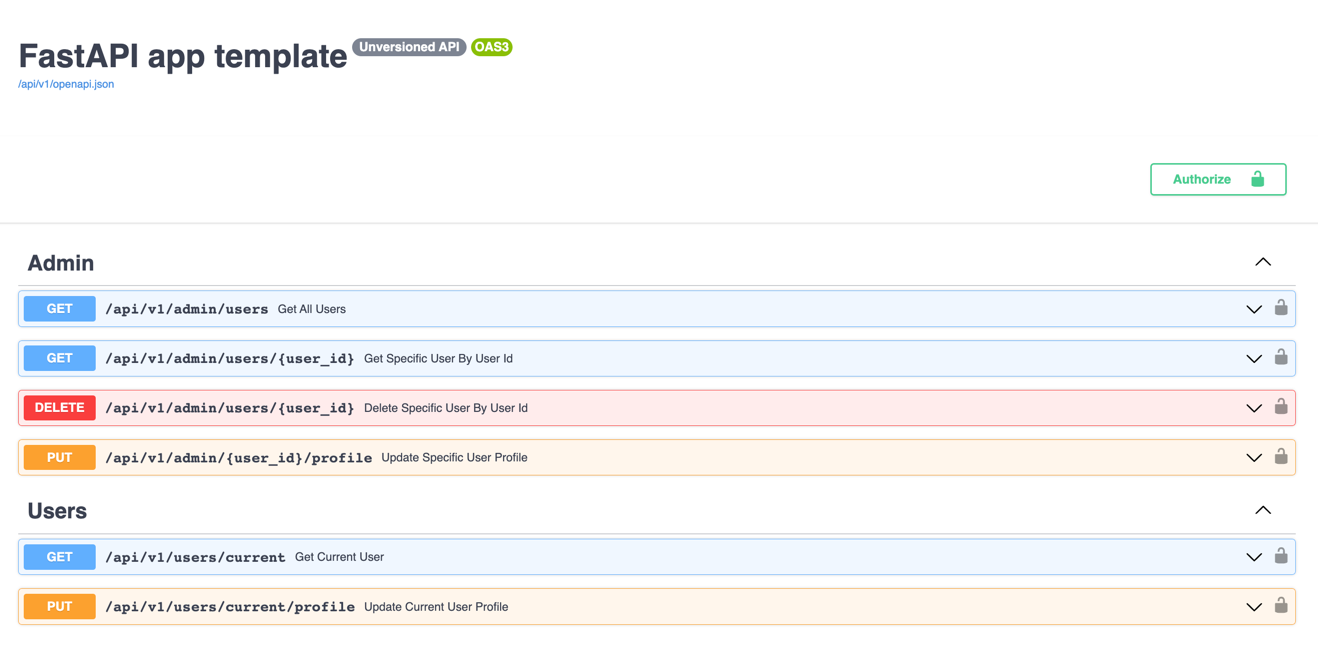
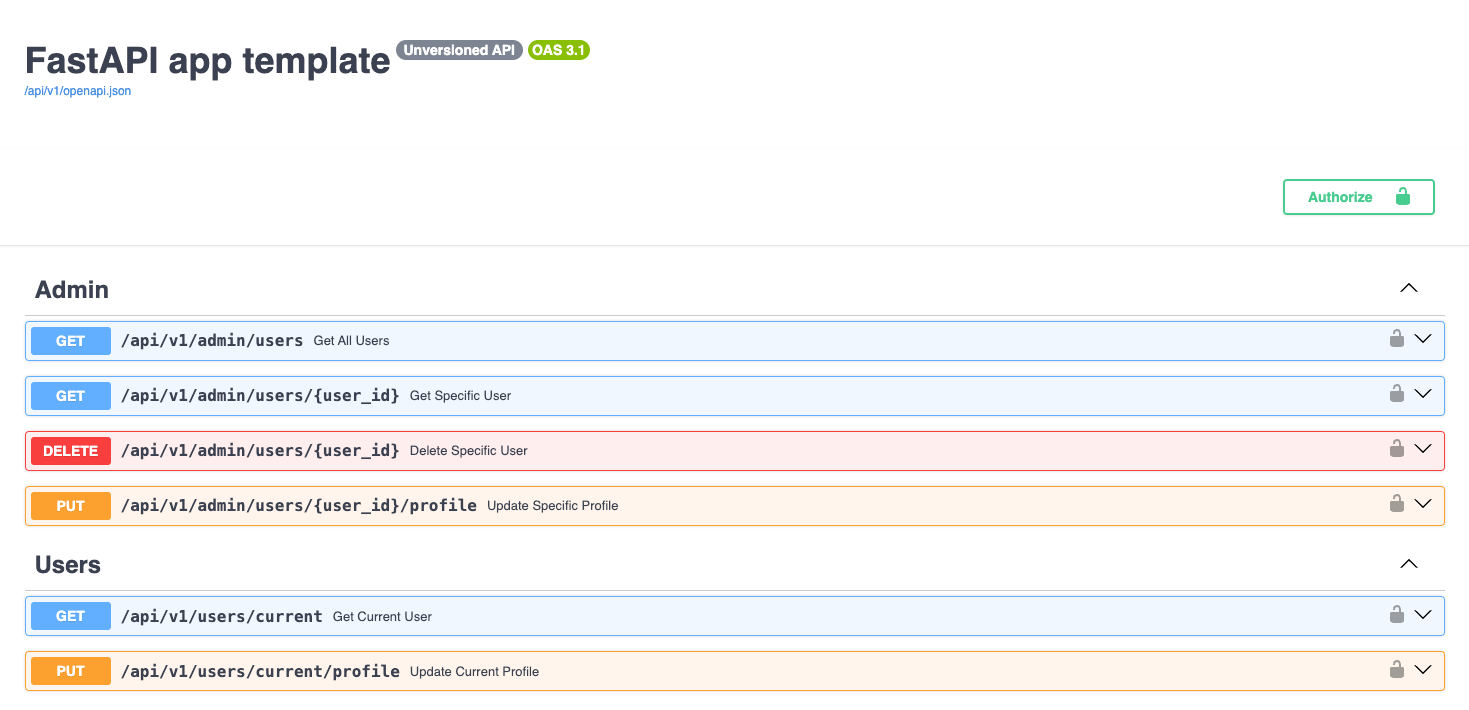
fix(docs): fix FastAPI router name / description

diff --git a/app/modules/core/routes.py b/app/modules/core/routes.py
@@ -37,9 +37,9 @@ router = APIRouter(prefix="/core")
     "/roles",
     status_code=status.HTTP_200_OK,
     response_model=Page[RoleBase],
-    name="Get all roles",
+    description="Get all roles with pagination",
 )
-async def get_roles(
+async def get_all_roles(
     db: AsyncSession = Depends(get_db),
     current_user: User = Security(  # noqa
         get_current_active_user, scopes=["admin", "role:read"]
@@ -52,7 +52,7 @@ async def get_roles(
     "/roles/{role_id}",
     status_code=status.HTTP_200_OK,
     response_model=RoleBase,
-    name="Get specific role",
+    description="Get specific role by role_id",
 )
 async def get_specific_role(
     role_id: int,
@@ -68,7 +68,7 @@ async def get_specific_role(
     "/roles",
     status_code=status.HTTP_200_OK,
     response_model=RoleBase,
-    name="Create a role",
+    description="Create a role",
 )
 async def create_role(
     role: RoleCreate,
@@ -85,9 +85,9 @@ async def create_role(
     "/roles/{role_id}",
     status_code=status.HTTP_200_OK,
     response_model=RoleBase,
-    name="Update specific role",
+    description="Update specific role by role_id",
 )
-async def update_role(
+async def update_specific_role(
     role_id: int,
     role: RoleUpdate,
     db: AsyncSession = Depends(get_db),
@@ -104,9 +104,9 @@ async def update_role(
     "/roles/{role_id}",
     status_code=status.HTTP_200_OK,
     response_model=DefaultResponse,
-    name="Delete specific role",
+    description="Delete specific role by role_id",
 )
-async def delete_role(
+async def delete_specific_role(
     role_id: int,
     db: AsyncSession = Depends(get_db),
     current_user: User = Security(  # noqa
@@ -120,7 +120,7 @@ async def delete_role(
     "/roles/user/{user_id}",
     status_code=status.HTTP_200_OK,
     response_model=UserRoleBase,
-    name="Get specific user roles",
+    description="Get specific user roles by user_id",
 )
 async def get_specific_user_roles(
     user_id: int,
@@ -136,7 +136,7 @@ async def get_specific_user_roles(
     "/roles/{role_id}/user/{user_id}",
     status_code=status.HTTP_201_CREATED,
     response_model=UserRoleBase,
-    name="Link role to a user",
+    description="Link role to a user given a role_id and user_id",
 )
 async def link_role_to_user(
     role_id: int,
@@ -161,9 +161,9 @@ async def link_role_to_user(
     "/roles/{role_id}/permissions",
     status_code=status.HTTP_200_OK,
     response_model=RolePermissions,
-    name="Get specific permissions for a role",
+    description="Get specific permissions for a role given a role_id",
 )
-async def role_permission(
+async def get_role_permission(
     role_id: int,
     db: AsyncSession = Depends(get_db),
     current_user: User = Security(  # noqa
@@ -184,7 +184,7 @@ async def role_permission(
     "/roles/{role_id}/user/{user_id}",
     status_code=status.HTTP_200_OK,
     response_model=DefaultResponse,
-    name="Unlink a role from a user",
+    description="Unlink a role from a user given a role_id and user_id",
 )
 async def unlink_role_from_user(
     role_id: int,
@@ -214,7 +214,7 @@ async def unlink_role_from_user(
     "/roles/{role_id}/permission/{permission_id}",
     status_code=status.HTTP_200_OK,
     response_model=RolePermissions,
-    name="Link role to a permission",
+    description="Link role to a permission given a role_id and permission_id",
 )
 async def link_role_to_permission(
     role_id: int,
@@ -244,7 +244,7 @@ async def link_role_to_permission(
     "/roles/{role_id}/permission/{permission_id}",
     status_code=status.HTTP_200_OK,
     response_model=DefaultResponse,
-    name="Unlink a role from a permission",
+    description="Unlink a role from a permission given a role_id and permission_id",
 )
 async def unlink_role_from_permission(
     role_id: int,
@@ -274,9 +274,9 @@ async def unlink_role_from_permission(
     "/permissions",
     status_code=status.HTTP_200_OK,
     response_model=Page[PermissionBase],
-    name="Get all permissions",
+    description="Get all permissions with pagination",
 )
-async def get_permissions(
+async def get_all_permissions(
     db: AsyncSession = Depends(get_db),
     current_user: User = Security(  # noqa
         get_current_active_user, scopes=["admin", "permission:read"]
@@ -289,7 +289,7 @@ async def get_permissions(
     "/permissions/{permission_id}",
     status_code=status.HTTP_200_OK,
     response_model=PermissionBase,
-    name="Get specific permission",
+    description="Get specific permission by permission_id",
 )
 async def get_specific_permission(
     permission_id: int,
@@ -305,7 +305,7 @@ async def get_specific_permission(
     "/permissions",
     status_code=status.HTTP_201_CREATED,
     response_model=PermissionBase,
-    name="Create permission",
+    description="Create permission with a scope name and description",
 )
 async def create_permission(
     permission: PermissionCreate,
@@ -322,9 +322,9 @@ async def create_permission(
     "/permissions/{permission_id}",
     status_code=status.HTTP_200_OK,
     response_model=PermissionBase,
-    name="Update specific permission",
+    description="Update specific permission by permission_id",
 )
-async def edit_permission(
+async def update_specific_permission(
     permission_id: int,
     permission: PermissionUpdate,
     db: AsyncSession = Depends(get_db),
@@ -341,9 +341,9 @@ async def edit_permission(
     "/permissions/{permission_id}",
     status_code=status.HTTP_200_OK,
     response_model=DefaultResponse,
-    name="Delete specific permission",
+    description="Delete specific permission by permission_id",
 )
-async def delete_permission(
+async def delete_specific_permission(
     permission_id: int,
     db: AsyncSession = Depends(get_db),
     current_user: User = Security(  # noqa
@@ -357,7 +357,7 @@ async def delete_permission(
     "/permissions/user/{user_id}",
     status_code=status.HTTP_200_OK,
     response_model=UserPermissionBase,
-    name="Get specific user permissions",
+    description="Get specific user permissions by user_id",
 )
 async def get_specific_user_permission(
     user_id: int,

diff --git a/app/auth/routes.py b/app/auth/routes.py
@@ -28,9 +28,9 @@ router = APIRouter(prefix="/auth")
     "/signup",
     status_code=status.HTTP_201_CREATED,
     response_model=UserSchema,
-    name="Create an account",
+    description="Create an account",
 )
-async def create_user(
+async def signup(
     user: UserCreate, request: Request, db: AsyncSession = Depends(get_db)
 ) -> UserSchema:
     if not settings.USERS_OPEN_REGISTRATION:
@@ -72,12 +72,12 @@ async def create_user(
 
 
 @router.post(
-    "/token",
+    "/login",
     status_code=status.HTTP_201_CREATED,
     response_model=Token,
-    name="Get an access/refresh token",
+    description="Get an access/refresh token",
 )
-async def login_for_access_token(
+async def login(
     db: AsyncSession = Depends(get_db), form_data: OAuth2PasswordRequestForm = Depends()
 ) -> dict:
     user = await check_user_auth(db, form_data.username, form_data.password)
@@ -85,13 +85,12 @@ async def login_for_access_token(
 
 
 @router.post(
-    "/refresh_token",
+    "/refresh_access_token/{token}",
     status_code=status.HTTP_201_CREATED,
     response_model=Token,
-    name="refresh_access_token",
     description="Refresh an access token using a refresh token",
 )
-async def refresh_token(
+async def refresh_access_token(
     db: AsyncSession = Depends(get_db), token: RefreshToken = Depends()
 ) -> dict:
     user = await validate_refresh_token(db, token=token.refresh_token)
@@ -104,7 +103,7 @@ async def refresh_token(
 
 
 @router.post(
-    "/logout", status_code=status.HTTP_200_OK, name="Logout", response_model=Message
+    "/logout", status_code=status.HTTP_200_OK, response_model=Message
 )
 async def logout() -> dict:
     # Remove access_token/refresh_token from the frontend
@@ -115,7 +114,7 @@ async def logout() -> dict:
     "/verify_email/{token}",
     status_code=status.HTTP_200_OK,
     response_model=Message,
-    name="verify_email",
+    description="Verify an email",
 )
 async def verify_email(token: str, db: AsyncSession = Depends(get_db)) -> dict:
     email_verification = await get_specific(
@@ -139,8 +138,8 @@ async def verify_email(token: str, db: AsyncSession = Depends(get_db)) -> dict:
 @router.get(
     "/resend_verification_email/{email}",
     status_code=status.HTTP_200_OK,
-    name="Resend verification email",
     response_model=Message,
+    description="Resend a verification email",
 )
 async def resend_verification_email(
     email: str, request: Request, db: AsyncSession = Depends(get_db)

diff --git a/app/modules/admin/routes.py b/app/modules/admin/routes.py
@@ -29,9 +29,9 @@ router = APIRouter(prefix="/admin")
     "/users",
     status_code=status.HTTP_200_OK,
     response_model=Page[UserSchema],
-    name="Get all users",
+    description="Get all users with pagination",
 )
-async def get_users(
+async def get_all_users(
     db: AsyncSession = Depends(get_db),
     current_user: User = Security(get_current_active_user, scopes=["admin"]),  # noqa
 ) -> AbstractPage:
@@ -42,7 +42,7 @@ async def get_users(
     "/users/{user_id}",
     response_model=UserSchemaProfile,
     status_code=status.HTTP_200_OK,
-    name="Get specific user by user_id",
+    description="Get specific user by user_id",
 )
 async def get_specific_user(
     user_id: int,
@@ -58,7 +58,7 @@ async def get_specific_user(
     "/users/{user_id}",
     status_code=status.HTTP_200_OK,
     response_model=DefaultResponse,
-    name="Delete specific user by user_id",
+    description="Delete specific user by user_id",
 )
 async def delete_specific_user(
     user_id: int,
@@ -69,10 +69,10 @@ async def delete_specific_user(
 
 
 @router.put(
-    "/{user_id}/profile",
+    "/users/{user_id}/profile",
     status_code=status.HTTP_200_OK,
     response_model=UserProfile,
-    name="Update specific user profile",
+    description="Update specific user profile",
 )
 async def update_specific_profile(
     user_id: int,

diff --git a/app/modules/users/routes.py b/app/modules/users/routes.py
@@ -14,7 +14,7 @@ router = APIRouter(prefix="/users")
     "/current",
     status_code=status.HTTP_200_OK,
     response_model=UserSchemaProfile,
-    name="Get current user",
+    description="Get current user with profile information",
 )
 def get_current_user(
     current_user: UserSchemaProfile = Security(get_current_active_user),
@@ -26,7 +26,7 @@ def get_current_user(
     "/current/profile",
     status_code=status.HTTP_200_OK,
     response_model=UserProfile,
-    name="Update current user profile",
+    description="Update current user profile with new information",
 )
 async def update_current_profile(
     profile: UserProfileBase,
